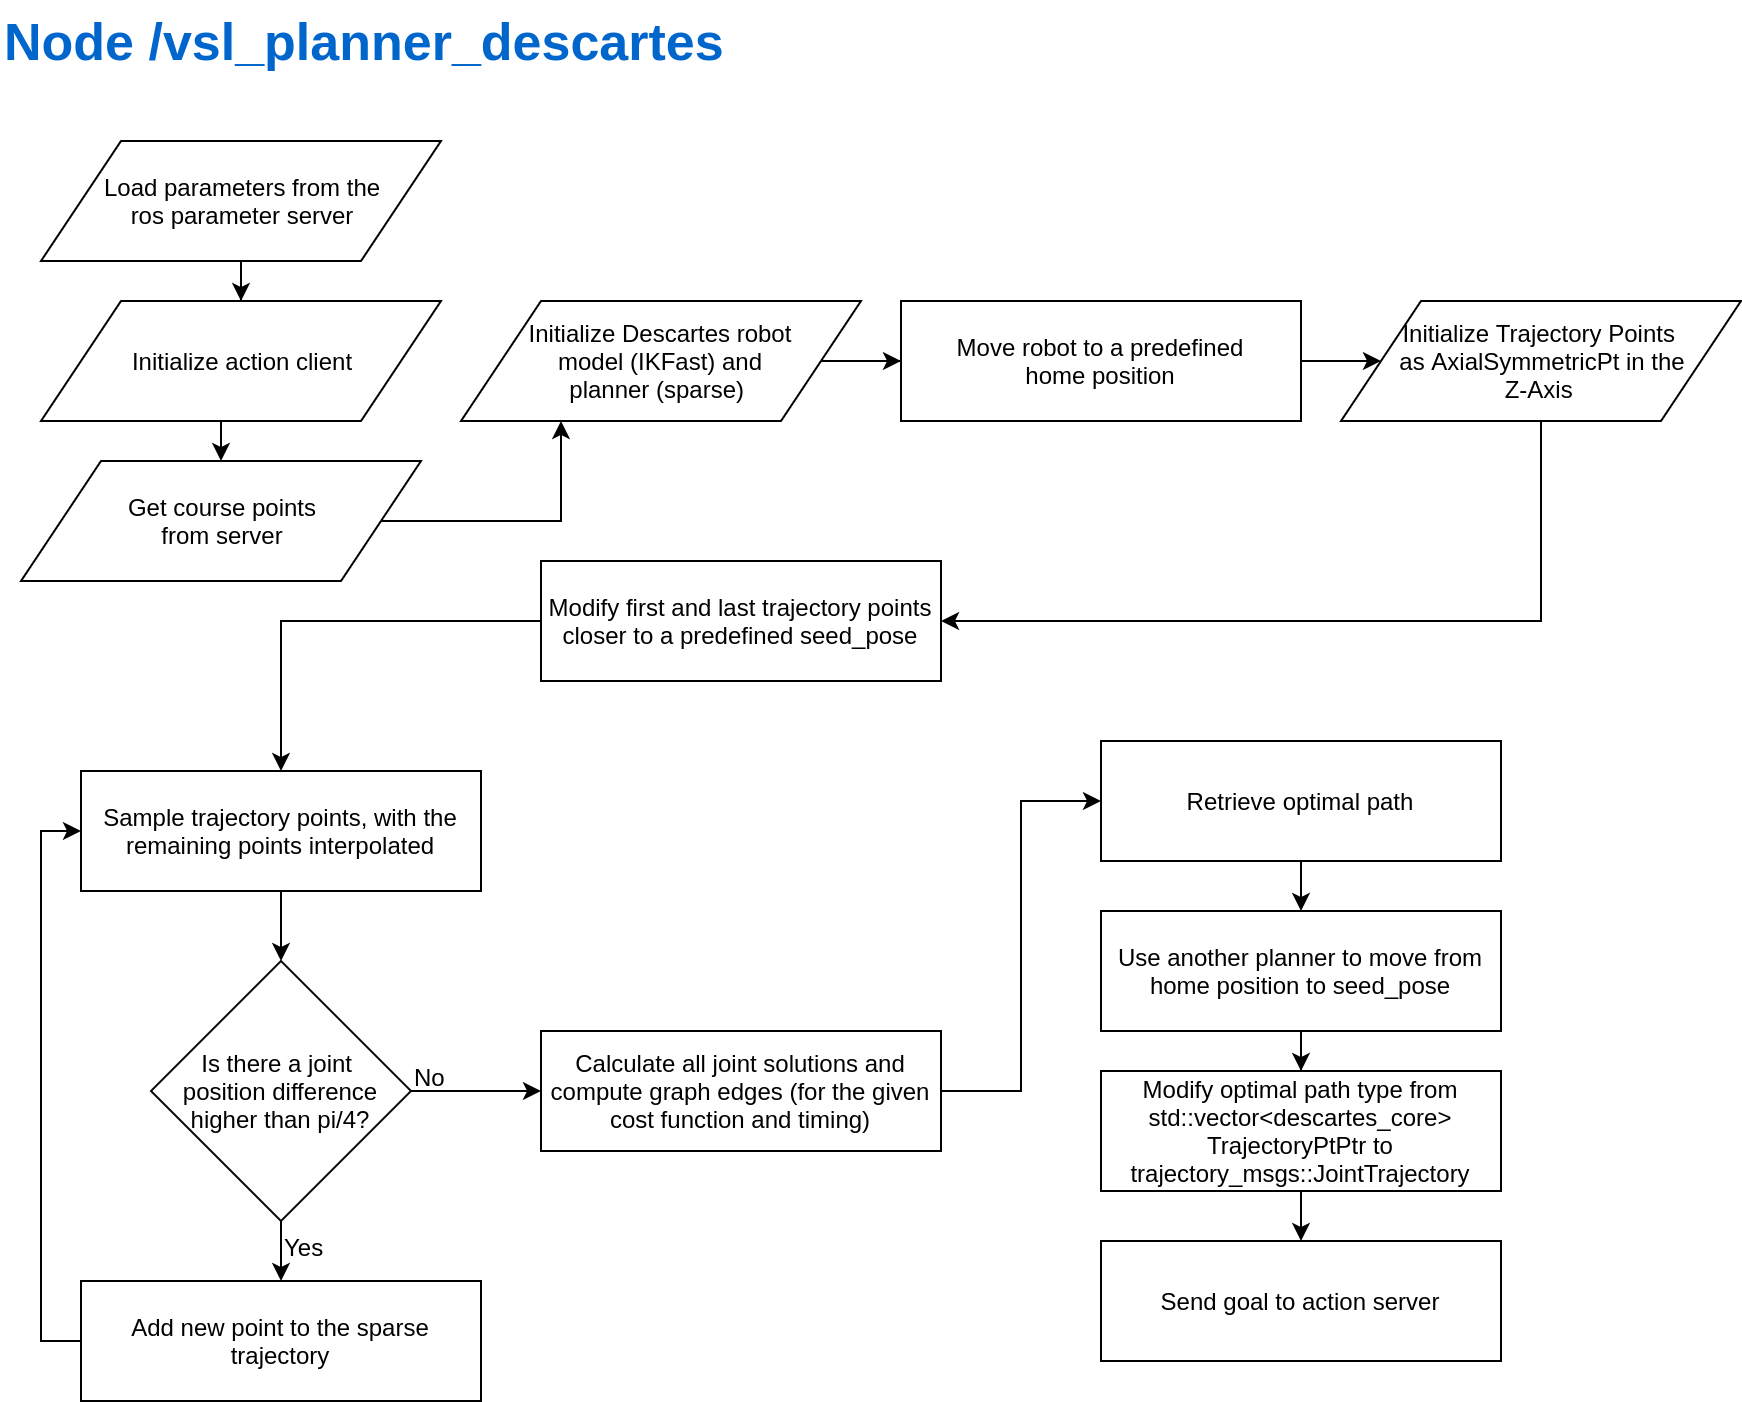
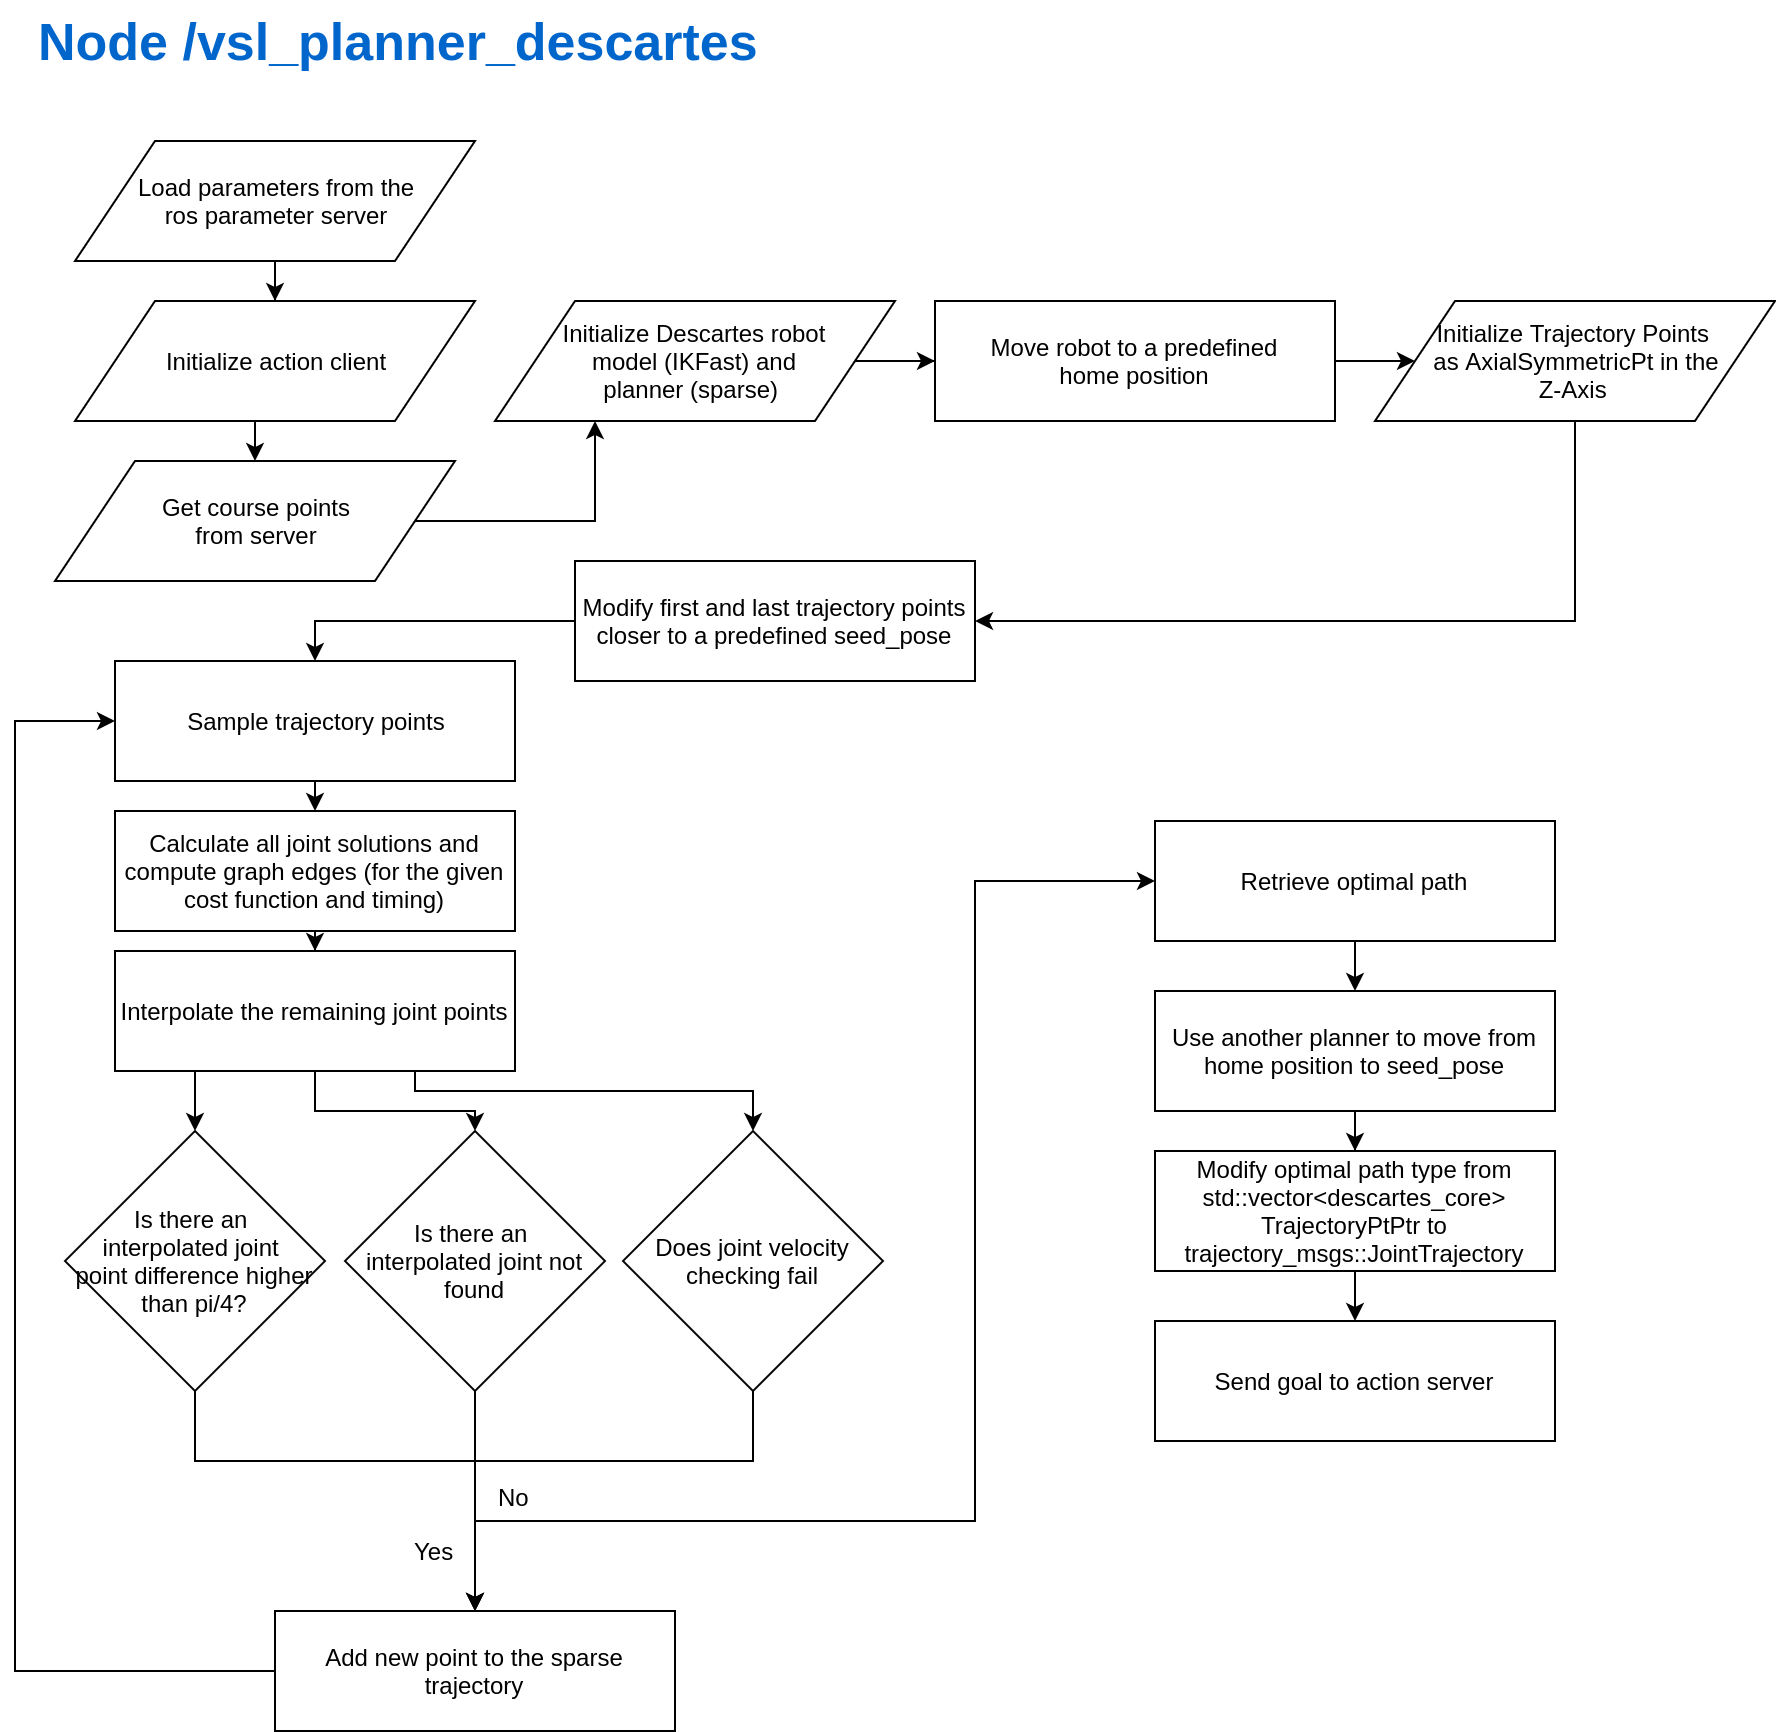
add joint plots in the pictures folder

diff --git a/include/vsl_planner.h b/include/vsl_planner.h
@@ -21,9 +21,10 @@
 // Descartes
 #include <descartes_utilities/ros_conversions.h>
 #include <descartes_moveit/ikfast_moveit_state_adapter.h>
-#include <descartes_planner/sparse_planner.h>
 #include <descartes_trajectory/axial_symmetric_pt.h>
 #include <descartes_trajectory/cart_trajectory_pt.h>
+//#include <descartes_planner/sparse_planner.h>
+#include <descartes_planner/dense_planner.h>
 
 namespace vsl_motion_planning
 {
@@ -74,7 +75,8 @@ protected:
 
     //Descartes
     descartes_core::RobotModelPtr robot_model_ptr_;
-    descartes_planner::SparsePlanner planner_;
+    //descartes_planner::SparsePlanner planner_;
+    descartes_planner::DensePlanner planner_;
 
 };
 
